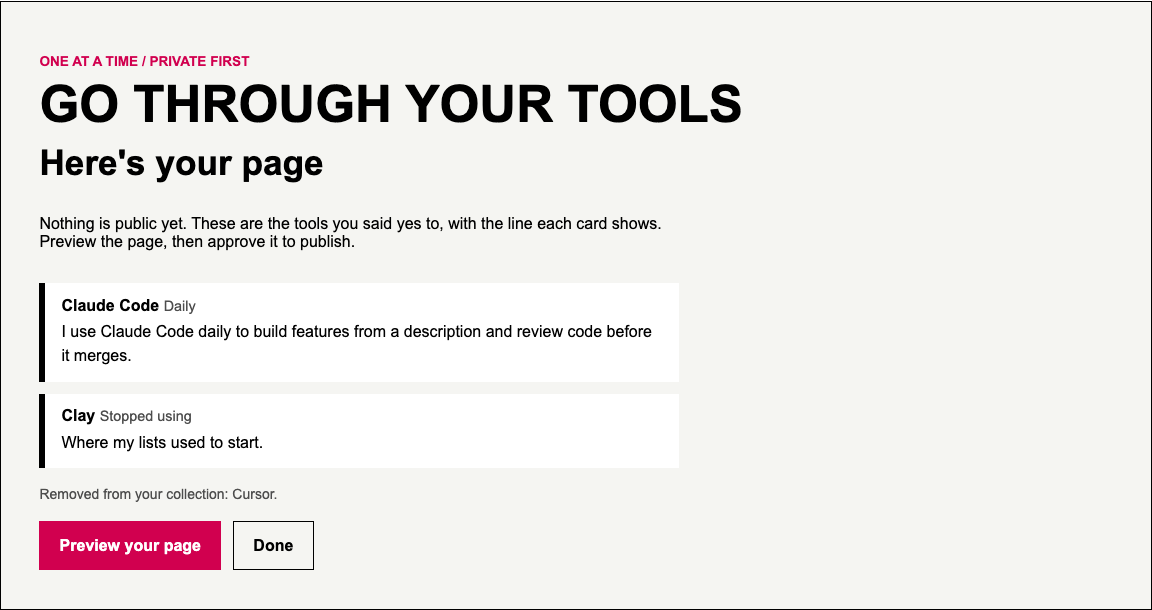
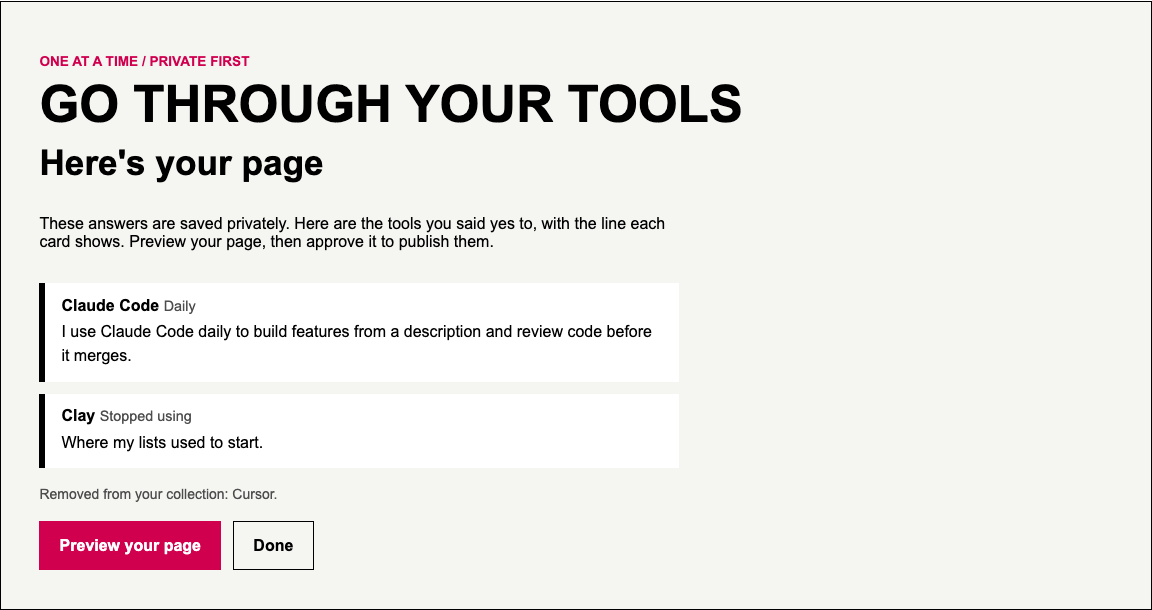
fix: the walkthrough's last screen speaks only for its own answers (B3)
It said "Nothing is public yet", which is false for an account that already
has a published page. It now says the answers are saved privately and that
approving the preview publishes them.

Changed region(s): [[0.0312, 0.3426, 0.5938, 0.4049]]

diff --git a/components/walkthrough.tsx b/components/walkthrough.tsx
@@ -195,7 +195,7 @@ function PageSummary({ session, cards, removed, onPreview, onClose }: {
   const saved = cards.filter(card => card.product && session.settled[card.prop._id] === "saved");
   return <div className={styles.screen}>
     <h3 ref={heading} tabIndex={-1} className={styles.name}>Here&apos;s your page</h3>
-    <p>Nothing is public yet. These are the tools you said yes to, with the line each card shows. Preview the page, then approve it to publish.</p>
+    <p>These answers are saved privately. Here are the tools you said yes to, with the line each card shows. Preview your page, then approve it to publish them.</p>
     {saved.length ? <ul className={styles.summary}>{saved.map(card => <li key={card.prop._id}>
       <strong>{card.product!.name}</strong> <span>{cardStatusLabel(card.prop)}</span>
       <p>{walkthroughLine(card) || "No line yet, so this card stays private."}</p>

diff --git a/tests/e2e/walkthrough.spec.ts b/tests/e2e/walkthrough.spec.ts
@@ -161,6 +161,9 @@ const typed = "Where my lists used to start.";
   await expect(walk.getByRole("listitem").filter({ hasText: "Claude Code" })).toContainText(kept);
   await expect(walk.getByRole("listitem").filter({ hasText: "Clay" })).toContainText(typed);
   await expect(walk).toContainText("Removed from your collection: Cursor.");
+  // It speaks only for these answers: an account may already have a page that is public.
+  await expect(walk).toContainText("These answers are saved privately.");
+  await expect(walk).not.toContainText("Nothing is public yet");
   await noAxeViolations(browserPage);
   await noSidewaysScroll(browserPage);
   await shoot("end");
